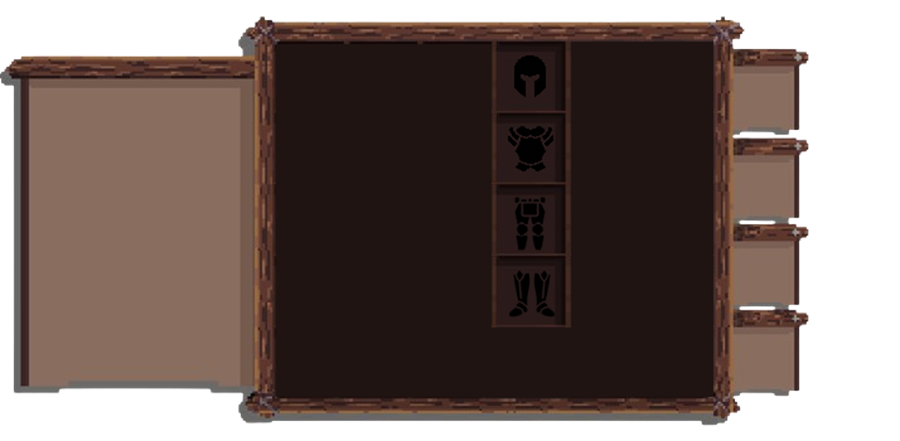
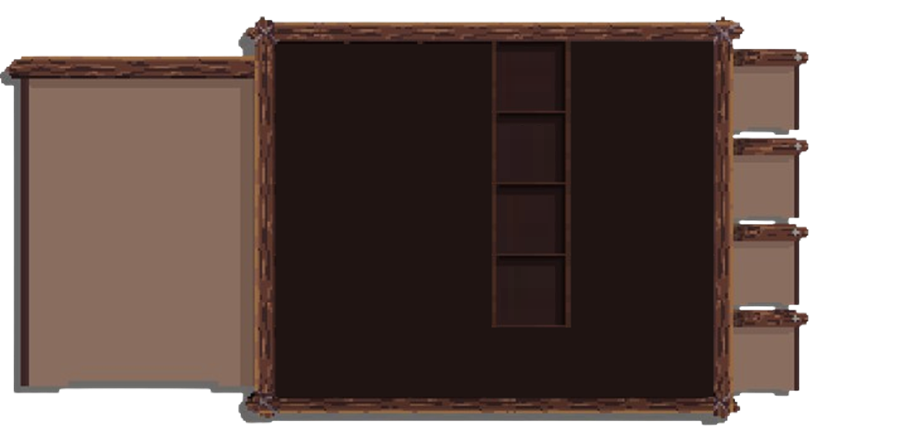
essaie d'ajouter syteme drag and drop armure inventaire

diff --git a/player_Yahya.py b/player_Yahya.py
@@ -38,7 +38,7 @@ class Player(pygame.sprite.Sprite):
         self.INV_X = 478  # Position X de l'inventaire
         self.INV_Y = self.screen.get_height()-0.1*self.screen.get_height()  # Position Y de l'inventaire
         self.CELL_SIZE = 50
-        self.CELL_SPACING = 25
+        self.CELL_SPACING = 23
         self.INV_COLS = 10
 
         #Liste de la barre d'inventaire
@@ -46,6 +46,9 @@ class Player(pygame.sprite.Sprite):
         self.inventory_icons = [pygame.image.load(f"Items/slot.png")for i in range(10)]
         self.stack_text = [self.font.render("", True, (255, 255, 255)) for i in range(10)] 
         
+        #Liste qui stoke les slot de l'inventaire de l'armure
+        self.armour_list = [{} for i in range(10)]
+
         #Tableaux de l'inventaire :
         # Inventaire étendu (sac) : 6 colonnes × 5 lignes = 30 emplacements
         self.inventory_list = [[{} for _ in range(6)] for _ in range(5)]
@@ -223,7 +226,7 @@ class Player(pygame.sprite.Sprite):
             for row in range(5):  # 5 lignes
                 for col in range(6):  # 6 colonnes
                     slot_x = start_x + col * (self.CELL_SIZE + self.CELL_SPACING)-10
-                    slot_y = start_y + row * (self.CELL_SIZE + self.CELL_SPACING)-10
+                    slot_y = start_y + row * (self.CELL_SIZE + self.CELL_SPACING)-5
                     icon = self.inventory_bag_icon[row][col]
                     stack = self.inventory_bag_stack_text[row][col]
 
@@ -415,7 +418,7 @@ class Player(pygame.sprite.Sprite):
                                     self.dragging_item = None
                                     self.drag_start_pos = None
                                     return
-                            # Sinon échange
+                            # Sinon on échange
                             if slot:
                                 temp, temp_icon, temp_text = slot, self.inventory_bag_icon[row][col], self.inventory_bag_stack_text[row][col]
                                 origin = self.drag_start_pos

diff --git a/main_Yahya.py b/main_Yahya.py
@@ -140,7 +140,7 @@ while True :
             
 
         if show_inventory:
-            
+            if player.OnBag:
                 player.handle_mouse_events(event)
             
 
@@ -161,7 +161,6 @@ while True :
             group.remove(sprite)  # Supprime l'objet du groupe
             player.add_to_inventory(sprite)
             
-            print("")
             print("**barre d'inventaire**")
             print(player.inventory_bar_list)
             print()
@@ -171,8 +170,8 @@ while True :
             
 
     if show_inventory:
-        
-        player.display_inventory()  # On appelle la méthode display_inventory pour afficher l'inventaire 
+        if player.OnBag : 
+            player.display_inventory()  # On appelle la méthode display_inventory pour afficher l'inventaire 
         
 
     pygame.display.update()
